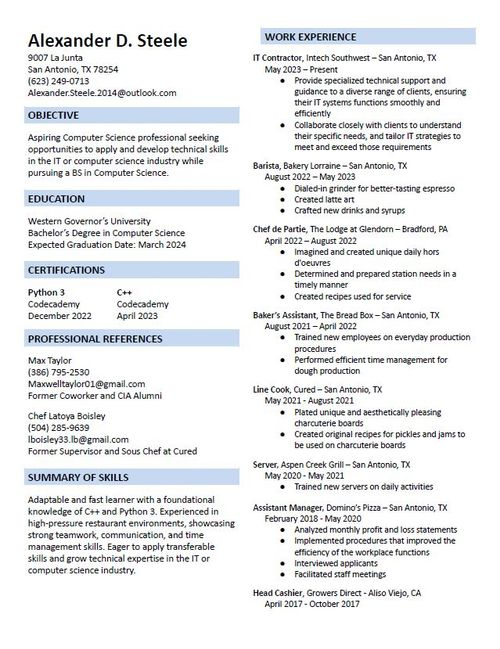
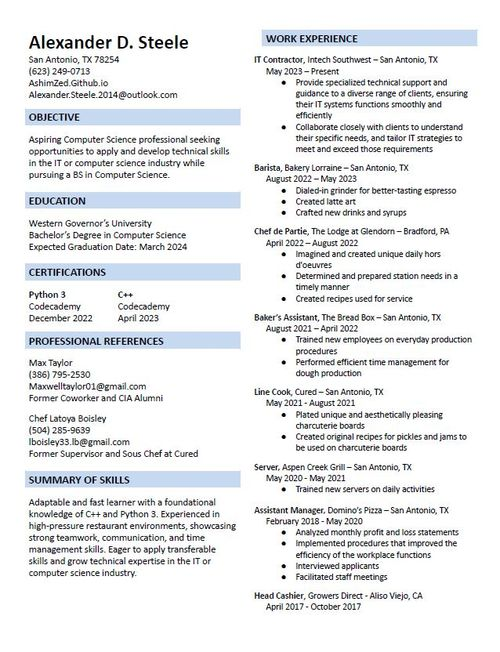
Update Resume to remove address.

diff --git a/index.html b/index.html
@@ -1,5 +1,5 @@
 <!DOCTYPE html><!--  This site was created in Webflow. https://www.webflow.com  -->
-<!--  Last Published: Wed Jun 21 2023 21:06:45 GMT+0000 (Coordinated Universal Time)  -->
+<!--  Last Published: Wed Jun 21 2023 23:38:38 GMT+0000 (Coordinated Universal Time)  -->
 <html data-wf-page="648ce1262f7c5d455ff27c70" data-wf-site="648ce1262f7c5d455ff27c68">
 <head>
   <meta charset="utf-8">
@@ -245,7 +245,7 @@
     <div class="container">
       <div class="columns w-row">
         <div class="column w-col w-col-7 w-col-small-6">
-          <div class="div-block-2"><img src="images/Resume.JPG" loading="lazy" width="300" sizes="(max-width: 479px) 88vw, (max-width: 767px) 45vw, 300px" srcset="images/Resume-p-500.jpg 500w, images/Resume.JPG 639w" alt="" class="image-2"></div>
+          <div class="div-block-2"><img src="images/Resume.JPG" loading="eager" height="" width="350" srcset="images/Resume.JPG 500w, images/Resume.JPG 638w" sizes="(max-width: 479px) 88vw, (max-width: 767px) 46vw, 350px" alt="" class="image-2"></div>
         </div>
         <div class="column-2 w-col w-col-5 w-col-small-6">
           <a href="https://drive.google.com/uc?export=download&amp;id=1iI_eNXSjetoHKm9h2BfaNlObbPgnQqGW" class="button w-button">Download PDF</a>

diff --git a/401.html b/401.html
@@ -1,5 +1,5 @@
 <!DOCTYPE html><!--  This site was created in Webflow. https://www.webflow.com  -->
-<!--  Last Published: Wed Jun 21 2023 21:06:45 GMT+0000 (Coordinated Universal Time)  -->
+<!--  Last Published: Wed Jun 21 2023 23:38:38 GMT+0000 (Coordinated Universal Time)  -->
 <html data-wf-page="648ce160f1237afd4049d2f9" data-wf-site="648ce1262f7c5d455ff27c68">
 <head>
   <meta charset="utf-8">

diff --git a/404.html b/404.html
@@ -1,5 +1,5 @@
 <!DOCTYPE html><!--  This site was created in Webflow. https://www.webflow.com  -->
-<!--  Last Published: Wed Jun 21 2023 21:06:45 GMT+0000 (Coordinated Universal Time)  -->
+<!--  Last Published: Wed Jun 21 2023 23:38:38 GMT+0000 (Coordinated Universal Time)  -->
 <html data-wf-page="648ce16846097276faff9887" data-wf-site="648ce1262f7c5d455ff27c68">
 <head>
   <meta charset="utf-8">
